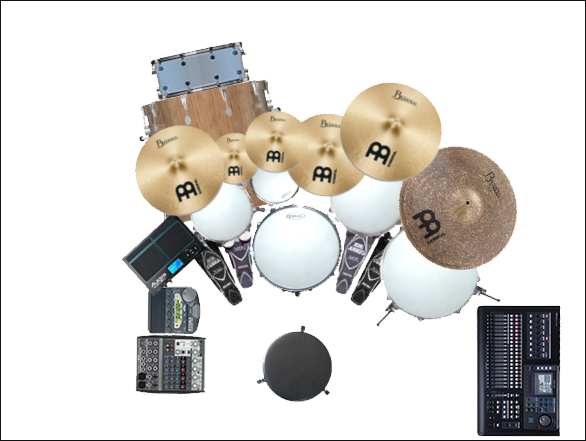
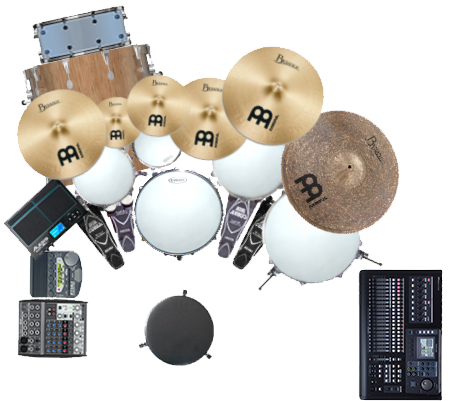
Getting rid of png's black pixel-border

diff --git a/drums.html b/drums.html
@@ -10,7 +10,11 @@
     <header-drums id="header-drums" class="header-drums">
       My Drumset
     </header-drums>
-    <img src="documents/pics/Set2019.png" alt="Set2019.png"; style="position: absolute; top: 70px; left: 90px;">
+    <img src="documents/pics/Set2019.png" alt="Set2019.png"; style="position: absolute;
+                                                                    top: 100px;
+                                                                    left: 200px;
+                                                                    width:450px;
+                                                                    height:400px;")>
     <article-drums id="article-drums" class="article-drums">
       <p style="font-size: 22px;">
         Walnut shells:<br>

diff --git a/documents/css/mars.css b/documents/css/mars.css
@@ -46,7 +46,7 @@
   font-size:30px;
 }
 .iframe {
-  width: 1000px;
+  width: 800px;
   height: 800px;
   position: absolute;
   top: 125px;
@@ -99,7 +99,7 @@ a:active {
 .header-drums {
     position: fixed;
     top: 0px;
-    left: 180px;
+    left: 300px;
     font-size: 30px;
     color: #CCAA99
 }
